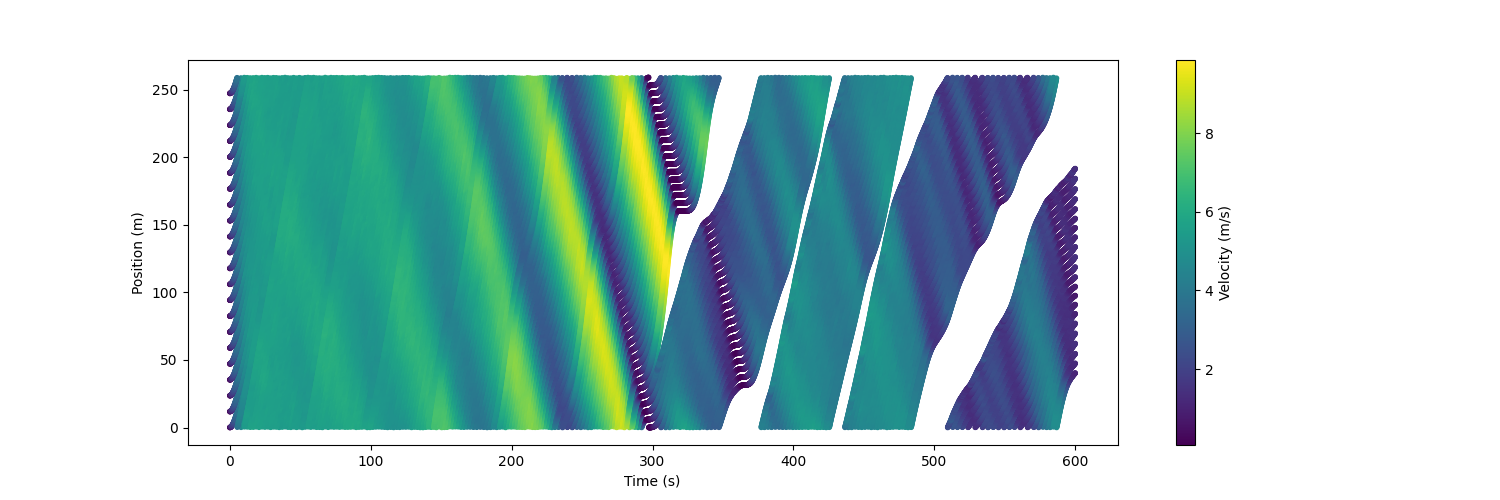
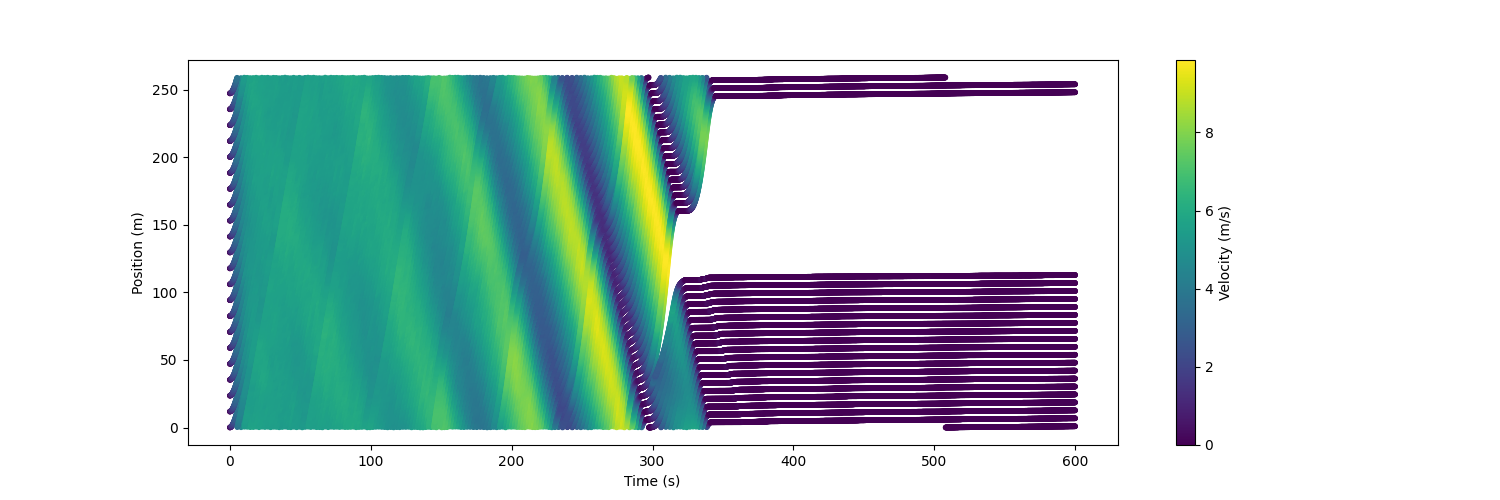
config change

Changed region(s): [[0.4293, 0.15, 0.736, 0.87], [0.7973, 0.72, 0.828, 0.75]]

diff --git a/main.py b/main.py
@@ -17,7 +17,7 @@ def main():
         scripts.train_dqn.evaluate("/home/vamsi/Documents/GitHub/RingRoad-RL/Models/DQN/DQNTrainer_2022-03-03_19-28-07/DQNTrainer_ringroad-v1_f4621_00000_0_2022-03-03_19-28-08/checkpoint_000488/checkpoint-488")
 
     elif args.type == "eval_ppo":
-        scripts.train_ppo.evaluate("/home/vamsi/Documents/GitHub/RingRoad-RL/Models/PPO/PPOTrainer_2022-03-10_13-51-36/PPOTrainer_ringroad-v1_1a0c8_00000_0_2022-03-10_13-51-36/checkpoint_000250/checkpoint-250")
+        scripts.train_ppo.evaluate("/home/vamsi/Documents/GitHub/RingRoad-RL/Models/PPO/PPOTrainer_2022-03-10_18-17-27/PPOTrainer_ringroad-v1_3dc8b_00000_0_2022-03-10_18-17-27/checkpoint_000250/checkpoint-250")
 
     elif args.type == "eval_idm":
         scripts.evaluate_idm.evaluate()

diff --git a/Ring_Road/envs/ringroad.py b/Ring_Road/envs/ringroad.py
@@ -187,7 +187,7 @@ class RingRoad(gym.Env):
         if self.eval_mode:
             self._initialize_state()
         else:
-            env_vehicles = np.random.randint(20, 26)
+            env_vehicles = np.random.randint(15, 23)
             self._initialize_state(env_vehicles)
             self._warmup_steps()
             self._set_agent_type(self.agent_type)
